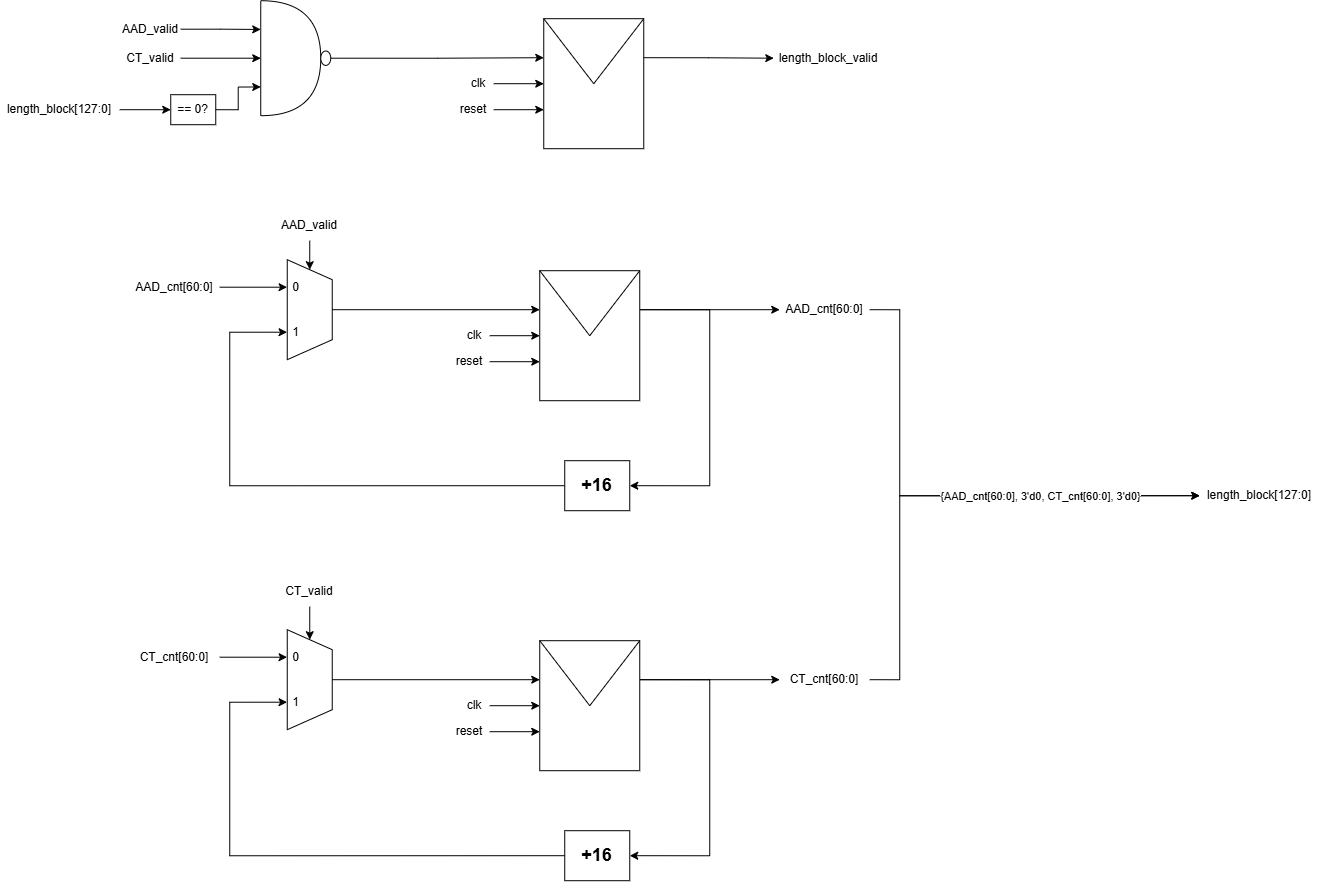
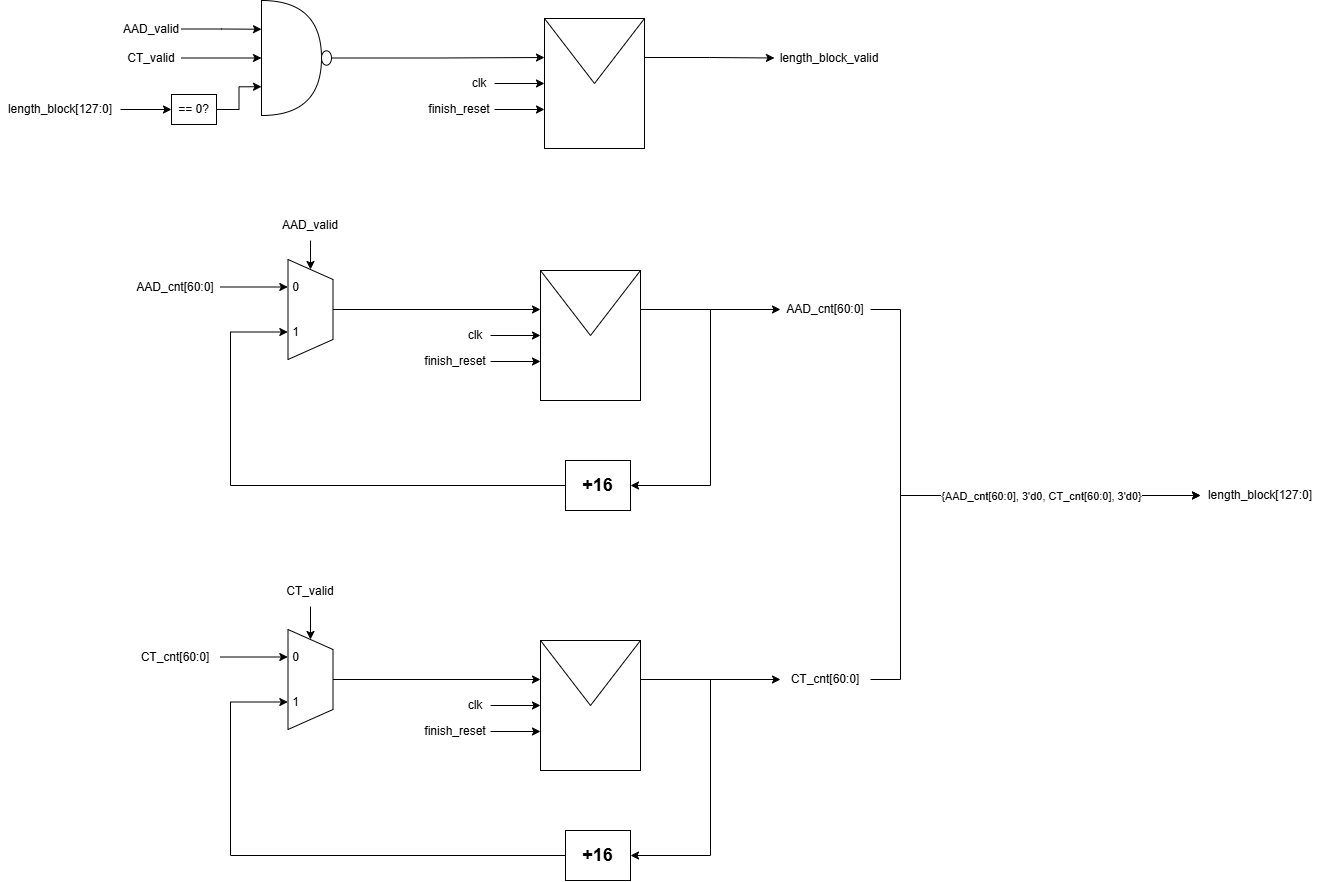
Refactor GHASH, LengthBlockCounter, and TagProcessing modules to replace reset signals with finish_reset and load_key inputs. Update associated logic and connections in the design. Modify diagram representations and update related images for consistency.

diff --git a/Quang Long/AES-GCM-GHASH/_design/GHASH_Design.md b/Quang Long/AES-GCM-GHASH/_design/GHASH_Design.md
@@ -1,18 +1,18 @@
 # High level Design
 ![[../../_media/GHASH high level.png]]
 
-| Tín hiệu             | Hướng  | Độ rộng | Mô tả                                                            |
-| :------------------- | :----- | :------ | :--------------------------------------------------------------- |
-| `clk`                | Input  | 1 bit   | Xung clock                                                       |
-| `reset`              | Input  | 1 bit   | Tín hiệu reset đặc biệt khi `finish_reset` hoặc `rst_n` được bật |
-| `AAD`                | Input  | 128 bit | Dữ liệu vào (AAD)                                                |
-| `AAD_valid`          | Input  | 1 bit   | Cờ báo AAD hợp lệ                                                |
-| `CT`                 | Input  | 128 bit | Dữ liệu vào (Ciphertext)                                         |
-| `CT_valid`           | Input  | 1 bit   | Cờ báo Ciphertext hợp lệ                                         |
-| `length_block`       | Input  | 128 bit | Dữ liệu vào (Length Block)                                       |
-| `length_block_valid` | Input  | 1 bit   | Cờ báo Length Block hợp lệ                                       |
-| `H_reg`              | Input  | 128 bit | Khóa $H=AES(K,0)$                                                |
-| `ghash_out`          | Output | 128 bit | Kết quả băm GHASH                                                |
-| `ghash_finish`       | Output | 1 bit   | Cờ báo kết quả băm GHASH cuối cùng                               |
+| Tín hiệu             | Hướng  | Độ rộng | Mô tả                                     |
+| :------------------- | :----- | :------ | :---------------------------------------- |
+| `clk`                | Input  | 1 bit   | Xung clock                                |
+| `finish_reset`       | Input  | 1 bit   | Tín hiệu reset đặc biệt, tích cực mức cao |
+| `AAD`                | Input  | 128 bit | Dữ liệu vào (AAD)                         |
+| `AAD_valid`          | Input  | 1 bit   | Cờ báo AAD hợp lệ                         |
+| `CT`                 | Input  | 128 bit | Dữ liệu vào (Ciphertext)                  |
+| `CT_valid`           | Input  | 1 bit   | Cờ báo Ciphertext hợp lệ                  |
+| `length_block`       | Input  | 128 bit | Dữ liệu vào (Length Block)                |
+| `length_block_valid` | Input  | 1 bit   | Cờ báo Length Block hợp lệ                |
+| `H_reg`              | Input  | 128 bit | Khóa $H=AES(K,0)$                         |
+| `ghash_out`          | Output | 128 bit | Kết quả băm GHASH                         |
+| `ghash_finish`       | Output | 1 bit   | Cờ báo kết quả băm GHASH cuối cùng        |
 # Low level Design 
 ![[../../_media/GHASH low level.png]]

diff --git a/Quang Long/AES-GCM-GHASH/_design/LengthBlockCounter_Design.md b/Quang Long/AES-GCM-GHASH/_design/LengthBlockCounter_Design.md
@@ -1,14 +1,14 @@
 # High level Design
 ![[LengthBlockCTR high level.png]]
 
-| Tín hiệu             | Hướng  | Độ rộng | Mô tả                                                            |
-| :------------------- | :----- | :------ | :--------------------------------------------------------------- |
-| `clk`                | Input  | 1 bit   | Xung clock                                                       |
-| `reset`              | Input  | 1 bit   | Tín hiệu reset đặc biệt khi `finish_reset` hoặc `rst_n` được bật |
-| `AAD_valid`          | Input  | 1 bit   | Cờ báo AAD hợp lệ                                                |
-| `CT_valid`           | Input  | 1 bit   | Cờ báo Ciphertext hợp lệ                                         |
-| `length_block`       | Output | 128 bit | Length Block AAD \|\| Ciphertext                                 |
-| `length_block_valid` | Ouput  | 1 bit   | Cờ báo Length Block hợp lệ                                       |
+| Tín hiệu             | Hướng  | Độ rộng | Mô tả                                     |
+| :------------------- | :----- | :------ | :---------------------------------------- |
+| `clk`                | Input  | 1 bit   | Xung clock                                |
+| `finish_reset`       | Input  | 1 bit   | Tín hiệu reset đặc biệt, tích cực mức cao |
+| `AAD_valid`          | Input  | 1 bit   | Cờ báo AAD hợp lệ                         |
+| `CT_valid`           | Input  | 1 bit   | Cờ báo Ciphertext hợp lệ                  |
+| `length_block`       | Output | 128 bit | Length Block AAD \|\| Ciphertext          |
+| `length_block_valid` | Output | 1 bit   | Cờ báo Length Block hợp lệ                |
 # Low level Design
 ![[LengthBlockCTR low level.png]]
 

diff --git a/Quang Long/AES-GCM-GHASH/_design/TagProcessing_Design.md b/Quang Long/AES-GCM-GHASH/_design/TagProcessing_Design.md
@@ -6,6 +6,7 @@
 | `clk`           | Input  | 1 bit   | Xung clock                                                      |
 | `rst_n`         | Input  | 1 bit   | Tín hiệu reset mức thấp                                         |
 | `finish_reset`  | Input  | 1 bit   | Tín hiệu reset khi khối AES-CTR hoàn thành quá trình            |
+| `load_key`      | Input  | 1 bit   | Cờ báo có Cipherkey mới đi vào                                  |
 | `mode`          | Input  | 1 bit   | Lựa chọn giữa chế độ mã hóa hoặc giải mã                        |
 | `AAD`           | Input  | 128 bit | Dữ liệu vào (AAD)                                               |
 | `CT`            | Input  | 128 bit | Dữ liệu vào (Ciphertext)                                        |
